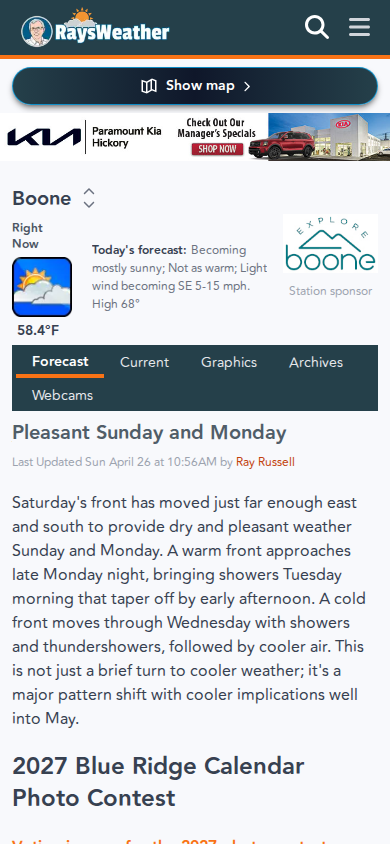
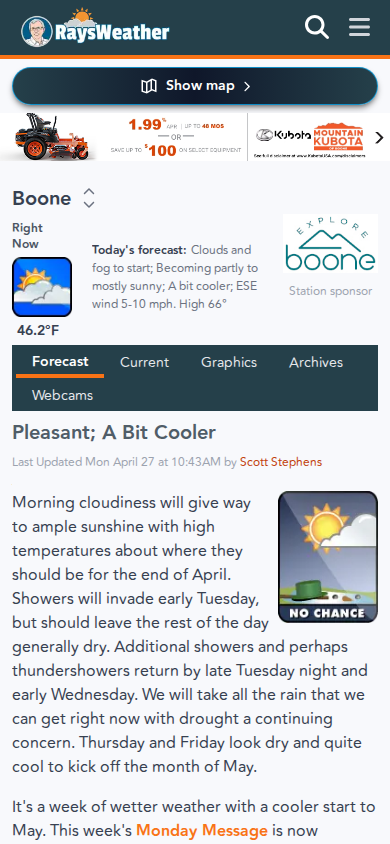
📊 Daily comparison 2026-04-27

diff --git a/docs/index.html b/docs/index.html
@@ -481,7 +481,7 @@ footer a:hover { text-decoration: underline; }
   </nav>
 </header>
 
-<div class="update-bar">Updated: April 27, 2026 at 07:29 AM EDT</div>
+<div class="update-bar">Updated: April 27, 2026 at 11:47 AM EDT</div>
 
 <main>
   <!-- weather tab -->
@@ -490,11 +490,11 @@ footer a:hover { text-decoration: underline; }
 <section class="card" id="sweater">
   <h2>Sweater weather in Boone?</h2>
   <div class="sweater-verdict">
-    <div class="sweater-score" id="live-sweaters"><img class="sweater-icon active" src="assets/sweateremoji.webp" alt="sweater"><img class="sweater-icon active" src="assets/sweateremoji.webp" alt="sweater"><img class="sweater-icon inactive" src="assets/sweateremoji.webp" alt="sweater"><img class="sweater-icon inactive" src="assets/sweateremoji.webp" alt="sweater"><img class="sweater-icon inactive" src="assets/sweateremoji.webp" alt="sweater"></div>
-    <div class="sweater-temp" id="live-temp">64.3&deg;F</div>
+    <div class="sweater-score" id="live-sweaters"><img class="sweater-icon active" src="assets/sweateremoji.webp" alt="sweater"><img class="sweater-icon inactive" src="assets/sweateremoji.webp" alt="sweater"><img class="sweater-icon inactive" src="assets/sweateremoji.webp" alt="sweater"><img class="sweater-icon inactive" src="assets/sweateremoji.webp" alt="sweater"><img class="sweater-icon inactive" src="assets/sweateremoji.webp" alt="sweater"></div>
+    <div class="sweater-temp" id="live-temp">68.5&deg;F</div>
     <div class="sweater-high" id="live-high"></div>
-    <p class="sweater-text" id="live-verdict">You could go either way. Bring it and decide later.</p>
-    <p class="sweater-layers" id="live-layers"><strong>Recommended layers:</strong> 0-1 (light layer, keep one in the car)</p>
+    <p class="sweater-text" id="live-verdict">No sweater needed unless you're in aggressive AC.</p>
+    <p class="sweater-layers" id="live-layers"><strong>Recommended layers:</strong> 0 (the sweater rests today)</p>
   </div>
 </section>
 
@@ -522,8 +522,8 @@ footer a:hover { text-decoration: underline; }
       </thead>
       <tbody>
 <tr class="actual-row">
-  <td><strong>Actual</strong> <span class="actual-date">(4/25/26)</span></td>
-  <td><span style="white-space:nowrap">Hi: 64.3&deg; / Lo: 52.1&deg;</span><br>Wind: 5.7 mph<br>Rain: 0.22"<br>Slight rain</td>
+  <td><strong>Actual</strong> <span class="actual-date">(4/26/26)</span></td>
+  <td><span style="white-space:nowrap">Hi: 68.5&deg; / Lo: 49.0&deg;</span><br>Wind: 8.6 mph<br>Rain: 0.004"<br>Light drizzle</td>
   <td colspan="2">&mdash;</td>
 </tr>
 <tr>
@@ -531,8 +531,8 @@ footer a:hover { text-decoration: underline; }
     <img src="assets/ray_face.svg" alt="Ray" style="height:2.5rem;width:2.5rem;vertical-align:middle;">
     <span>Ray's Weather</span>
   </td>
-  <td><span style="white-space:nowrap">Hi: 70.0&deg; / Lo: 49.0&deg;</span><br>Wind: 7.5 mph<br>Rain: 0.0"</td>
-  <td><strong>71.2/100</strong></td>
+  <td><span style="white-space:nowrap">Hi: 68.0&deg; / Lo: 42.0&deg;</span><br>Wind: 10.0 mph<br>Rain: 0.0"</td>
+  <td><strong>84.9/100</strong></td>
   <td><span class="verdict-faces"><img src="assets/ray_face.svg" alt="Ray" style="height:1.6rem;width:1.6rem;vertical-align:middle;"><img src="assets/ray_face.svg" alt="Ray" style="height:1.6rem;width:1.6rem;vertical-align:middle;"><img src="assets/ray_face.svg" alt="Ray" style="height:1.6rem;width:1.6rem;vertical-align:middle;"><img src="assets/ray_face.svg" alt="Ray" style="height:1.6rem;width:1.6rem;vertical-align:middle;"></span></td>
 </tr>
 <tr>
@@ -540,9 +540,9 @@ footer a:hover { text-decoration: underline; }
     <span class="source-icon">🌐</span>
     <span>Open-Meteo</span>
   </td>
-  <td><span style="white-space:nowrap">Hi: 67.1&deg; / Lo: 52.4&deg;</span><br>Wind: 10.5 mph<br>Rain: 0.768"</td>
-  <td><strong>84.0/100</strong></td>
-  <td><span class="verdict-faces"><img src="assets/ray_face.svg" alt="Ray" style="height:1.6rem;width:1.6rem;vertical-align:middle;"><img src="assets/ray_face.svg" alt="Ray" style="height:1.6rem;width:1.6rem;vertical-align:middle;"><img src="assets/ray_face.svg" alt="Ray" style="height:1.6rem;width:1.6rem;vertical-align:middle;"><img src="assets/ray_face.svg" alt="Ray" style="height:1.6rem;width:1.6rem;vertical-align:middle;"></span></td>
+  <td><span style="white-space:nowrap">Hi: 65.7&deg; / Lo: 50.3&deg;</span><br>Wind: 8.4 mph<br>Rain: 0.0"</td>
+  <td><strong>97.5/100</strong></td>
+  <td><span class="verdict-faces"><img src="assets/ray_face.svg" alt="Ray" style="height:1.6rem;width:1.6rem;vertical-align:middle;"><img src="assets/ray_face.svg" alt="Ray" style="height:1.6rem;width:1.6rem;vertical-align:middle;"><img src="assets/ray_face.svg" alt="Ray" style="height:1.6rem;width:1.6rem;vertical-align:middle;"><img src="assets/ray_face.svg" alt="Ray" style="height:1.6rem;width:1.6rem;vertical-align:middle;"><img src="assets/ray_face.svg" alt="Ray" style="height:1.6rem;width:1.6rem;vertical-align:middle;"></span></td>
 </tr></tbody>
     </table>
   </div>
@@ -554,7 +554,7 @@ footer a:hover { text-decoration: underline; }
   <div class="table-wrap">
     <table class="scores-table scoreboard-table">
       <thead><tr><th>Source</th><th>Record</th><th>Avg Score</th><th>Days Tracked</th></tr></thead>
-      <tbody><tr><td><strong>Open-Meteo</strong></td><td>52W - 0L - 1M</td><td>90.8/100</td><td>53</td></tr><tr><td><strong>Ray's Weather</strong></td><td>20W - 15L - 18M</td><td>71.4/100</td><td>53</td></tr><tr><td><strong>Apple Weather</strong></td><td>8W - 0L - 1M</td><td>88.1/100</td><td>9</td></tr></tbody>
+      <tbody><tr><td><strong>Open-Meteo</strong></td><td>53W - 0L - 1M</td><td>90.9/100</td><td>54</td></tr><tr><td><strong>Ray's Weather</strong></td><td>21W - 15L - 18M</td><td>71.7/100</td><td>54</td></tr><tr><td><strong>Apple Weather</strong></td><td>8W - 0L - 1M</td><td>88.1/100</td><td>9</td></tr></tbody>
     </table>
   </div>
   <p class="scoreboard-key">W = best forecast that day &middot; L = worst &middot; M = somewhere in the middle</p>
